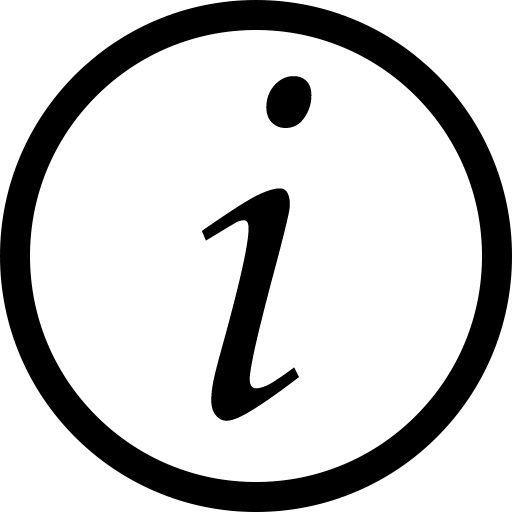
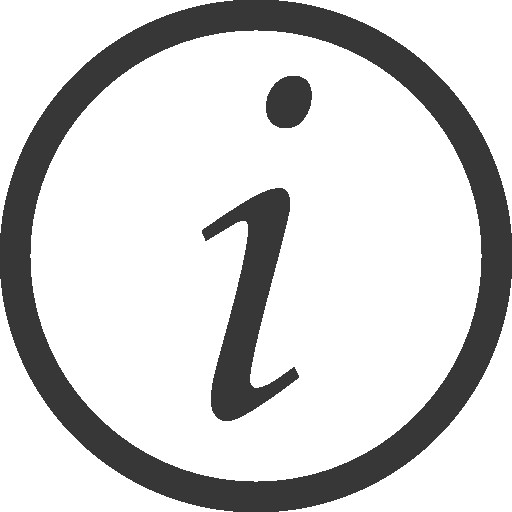
UI refine

Changed region(s): [[0.0, 0.0, 1.0, 1.0], [0.375, 0.3438, 0.5938, 0.8438], [0.5, 0.125, 0.625, 0.25]]

diff --git a/UI-Qt/QUDocumentWindow.cpp b/UI-Qt/QUDocumentWindow.cpp
@@ -3,6 +3,7 @@
 #include <QToolButton>
 #include <QWidgetAction>
 #include <QActionGroup>
+#include "QUApplication.h"
 #include "QUConv.h"
 #include "QUCMapBlockWidget.h"
 #include "QUDocumentWindowManager.h"
@@ -73,27 +74,30 @@ void
 QUDocumentWindow::initToolBar() {
     QToolBar * toolBar = ui_->toolBar;
 
-    ui_->actionFull_Glyph_List->setIcon(QIcon(":/images/glyph_d.png"));
+    ui_->actionFull_Glyph_List->setIcon(
+		quApp->loadIcon(":/images/glyph.png"));
 
     cmapBlockAction_ = toolBar->addAction(
-        QIcon(":/images/glyph_d.png"),tr("Glyphs"), 
+        quApp->loadIcon(":/images/glyph.png"),tr("Glyphs"), 
         this, &QUDocumentWindow::onCMapBlockAction);
 
-    QAction* variant = toolBar->addAction(QIcon(":/images/variant_d.png"), tr("Variant"));
+    QAction* variant = toolBar->addAction(
+		quApp->loadIcon(":/images/variant.png"), tr("Variant"));
+
     shapingAction_ = toolBar->addAction(
-        QIcon(":/images/shape_d.png"), tr("Shape"),
+		quApp->loadIcon(":/images/shape.png"), tr("Shape"),
         this, &QUDocumentWindow::onShapingAction);
     
     tableAction_ = toolBar->addAction(
-        QIcon(":/images/table_d.png"), tr("Table"),
+		quApp->loadIcon(":/images/table.png"), tr("Table"),
         this, &QUDocumentWindow::onTableAction);
     
     infoAction_ = toolBar->addAction(
-        QIcon(":/images/info_d.png"), tr("Info"),
+		quApp->loadIcon(":/images/info.png"), tr("Info"),
         this, &QUDocumentWindow::onFontInfoAction);
 
     searchAction_ = toolBar->addAction(
-        QIcon(":/images/search_d.png"), tr("Search"),
+		quApp->loadIcon(":/images/search.png"), tr("Search"),
         this, &QUDocumentWindow::onSearchAction);
     
     searchAction_->setShortcut(QKeySequence("Ctrl+F"));

diff --git a/UI-Qt/QUApplication.cpp b/UI-Qt/QUApplication.cpp
@@ -11,12 +11,12 @@
 #include <QtGui>
 #include <QtDebug>
 #include <QMessageBox>
+#include <QFileInfo>
 
 #include "QUDocumentWindowManager.h"
 #include "QUApplication.h"
 
-QUApplication::QUApplication(int &argc, char **argv) : QUSingleApplication(argc, argv)
-{
+QUApplication::QUApplication(int &argc, char **argv) : QUSingleApplication(argc, argv) {
     setOrganizationName("DANIEL JIANG");
     setOrganizationDomain("frinkr.top");
     setApplicationName("FontViewer");
@@ -24,6 +24,24 @@ QUApplication::QUApplication(int &argc, char **argv) : QUSingleApplication(argc,
 #ifdef Q_OS_MAC
     setQuitOnLastWindowClosed(false);
 #endif
+}
+
+bool
+QUApplication::darkMode() const {
+	QColor textColor = palette().color(QPalette::Normal, QPalette::Text);
+	return textColor.toRgb().value() != 0;
+}
+
+QIcon
+QUApplication::loadIcon(const QString & path) const {
+	if (darkMode()) {
+		QFileInfo fi(path);
+		QString d = fi.dir().filePath(fi.baseName() + "_d." + fi.completeSuffix());
+		fi = QFileInfo(d);
+		if (fi.exists())
+			return QIcon(d);
+	}
+	return QIcon(path);
 }
 
 QUApplication::~QUApplication()
@@ -44,3 +62,5 @@ bool QUApplication::event(QEvent *event)
     return QApplication::event(event);
 }
 #endif
+
+QUApplication * quApp = nullptr;

diff --git a/UI-Qt/QUApplication.h b/UI-Qt/QUApplication.h
@@ -11,6 +11,7 @@
 #ifndef QUAPPLICATION_H
 #define QUAPPLICATION_H
 
+#include <QIcon>
 #include "QUSingleApplication.h"
 
 class QEvent;
@@ -21,9 +22,17 @@ public:
     QUApplication(int &argc, char **argv);
     ~QUApplication();
 
+	bool
+	darkMode() const;
+
+	QIcon
+	loadIcon(const QString & path) const;
+
 #ifdef Q_OS_MAC
     bool event(QEvent *);
 #endif
 };
+
+extern QUApplication * quApp;
 
 #endif // QTDOCBASEDAPPLICATION_H

diff --git a/UI-Qt/QUMain.cpp b/UI-Qt/QUMain.cpp
@@ -32,6 +32,7 @@ int quMain(int argc, char *argv[])
     
     QUApplication app(argc, argv);
     app.setWindowIcon(QIcon(":/images/app.png"));
+	quApp = &app;
 
     QStringList arguments = app.arguments();
     bool anotherInstanceExists = false;
